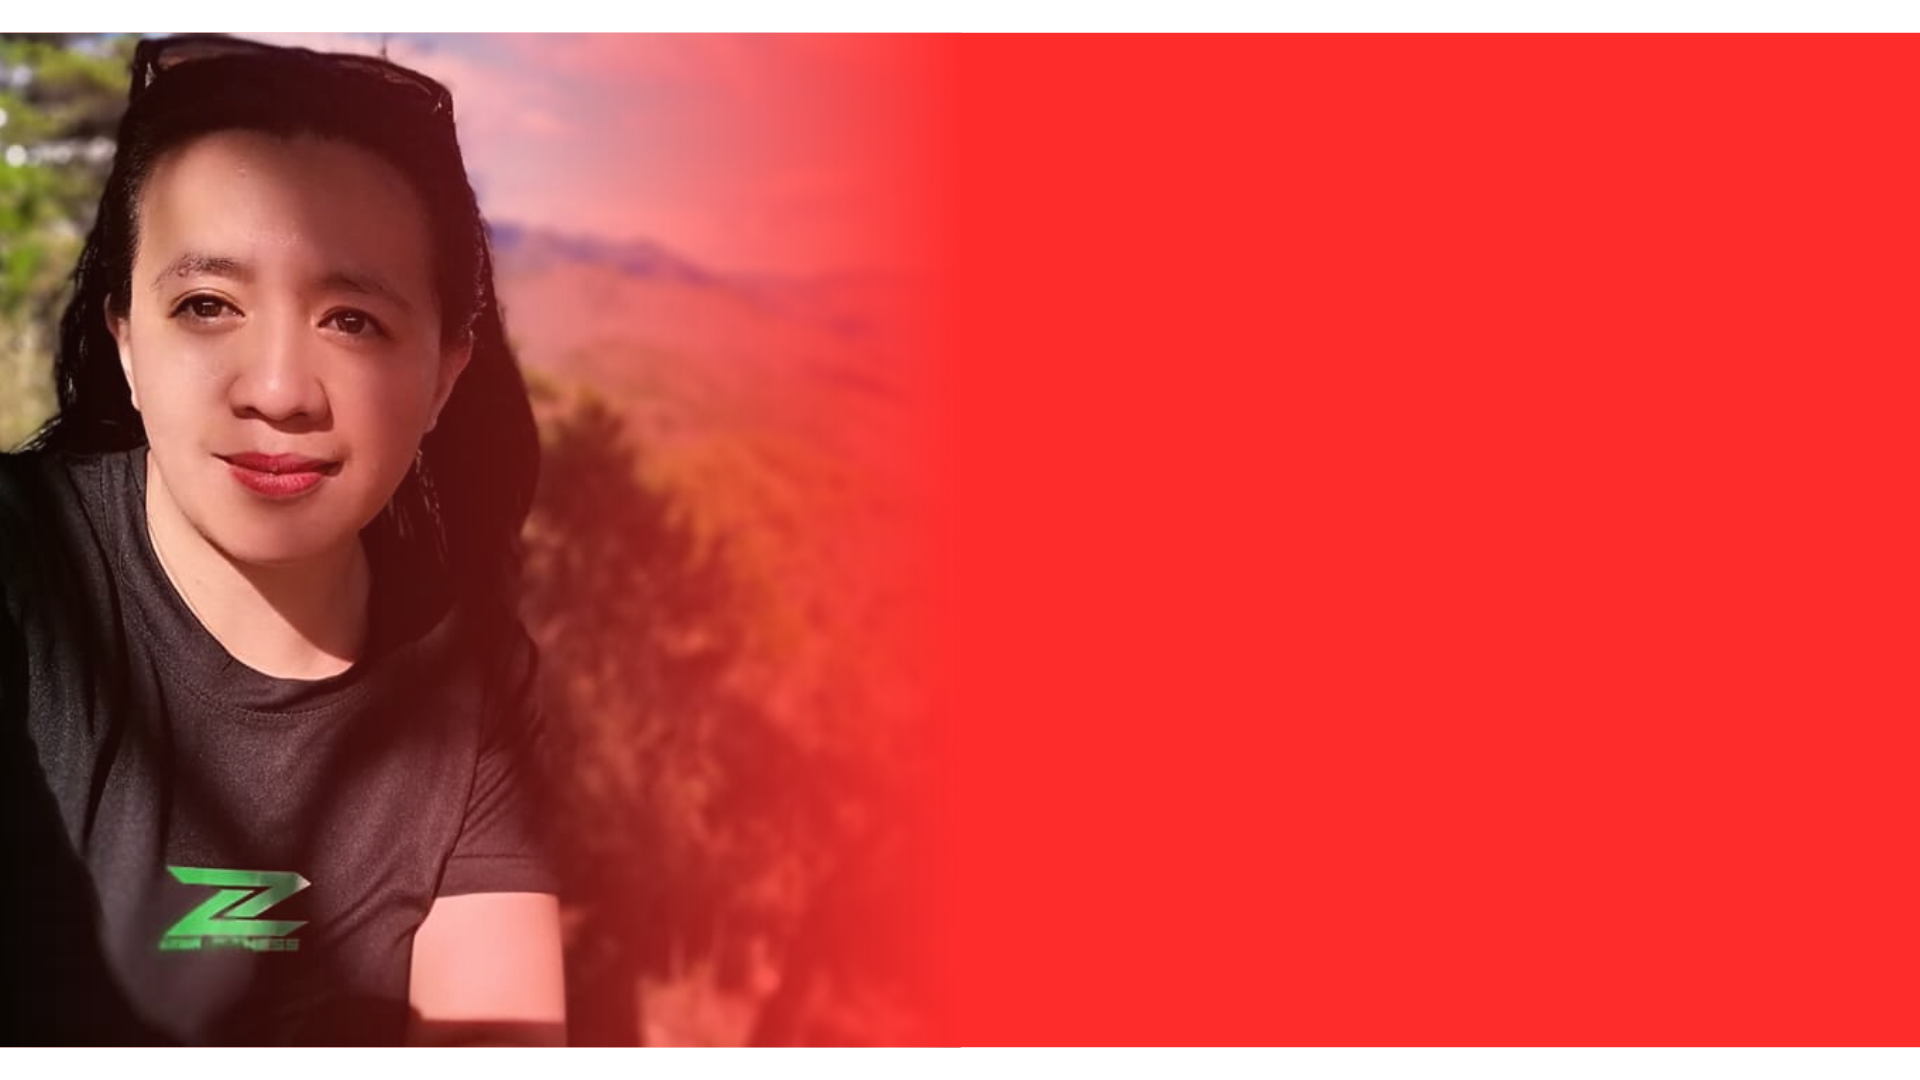
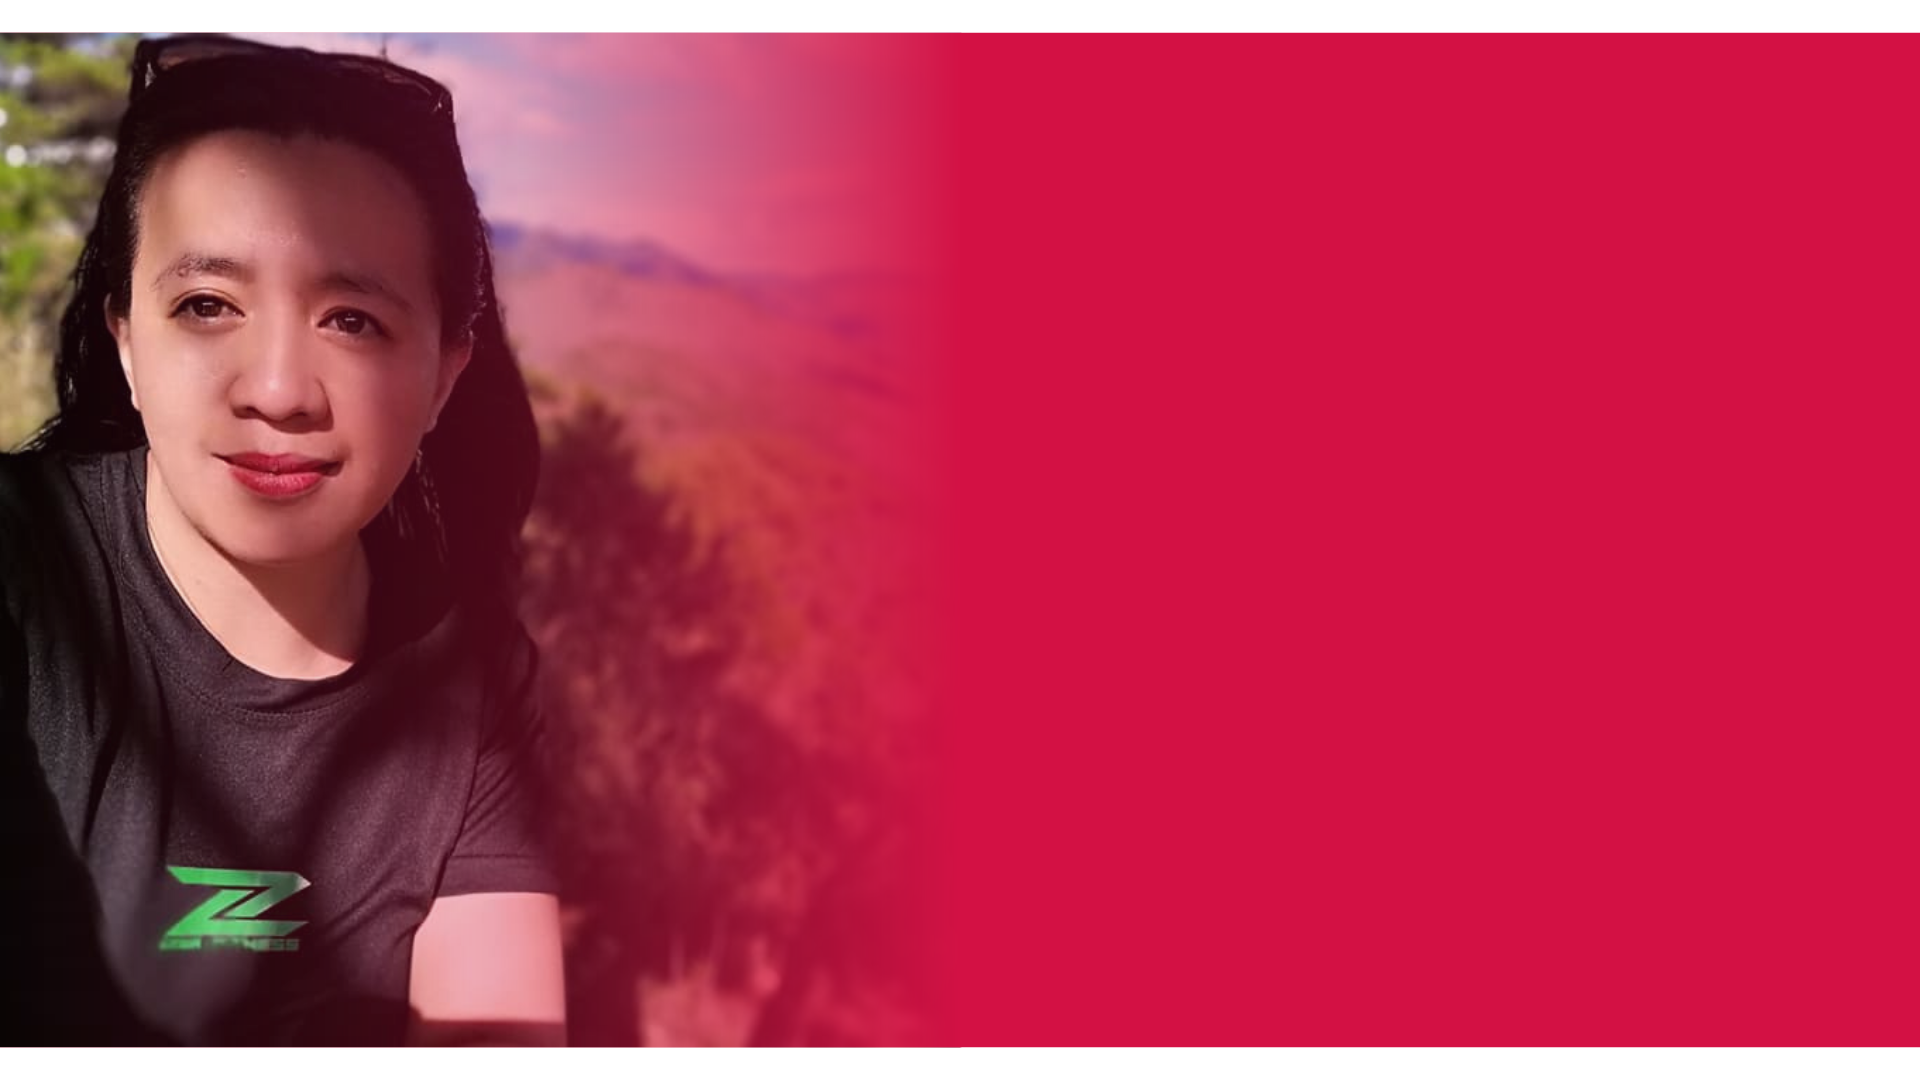
Update

diff --git a/index.html b/index.html
@@ -15,7 +15,10 @@
 
   <!-- Google Font -->
   <link href="https://fonts.googleapis.com/css?family=Montserrat:300,400,500,600,700|Open+Sans:300,400,700" rel="stylesheet">
+  <style>
 
+
+  </style>
 
   <!-- HTML5 shim and Respond.js for IE8 support of HTML5 elements and media queries -->
   <!-- WARNING: Respond.js doesn't work if you view the page via file:// -->
@@ -51,11 +54,13 @@
               <div class="hero-text">
                 <h1><span>Hi, I am</span><br>Merlyn Contic</h1>
                 <h3>Financial Advisor from AIA Philippines</h3>
+                <h3><b><i>"HEALTHIER, LONGER, BETTER LIVES"</i></b></h3>
                 <a href="#foot" class="btn btn-lg btn-primary">Know More</a>
                 <ul class="social-links">
                   <li class="label">My Contacts:</li>
                   <li><a href="#foot"><img src="assets/behance.png"></a></li>
                   <li><a href="https://www.facebook.com/profile.php?id=100091423065654"><img src="assets/twitter.png"></a></li>
+                  <li><a href="https://www.linkedin.com/in/merlyn-guidangen-contic-681818b0/"><img src="assets/linked-in.png"></a></li>
                   <li><a href="#foot"><img src="assets/dribbble.png"></a></li>
                 </ul>
               </div>
@@ -68,8 +73,8 @@
         <div class="container">
           <div class="row">
             <div class="col-md-12">
-              <h4 class="sub-heading">Exclusive</h4>
-              <h1 class="heading purple"><span class="purple">AIA</span> Services: <br></h1>
+              <h4 class="sub-heading">AIA</h4>
+              <h1 class="heading purple"><span class="purple">A+</span> Signature: <br></h1>
               <!-- Swiper -->
               <div class="swiper-container client-swiper">
                 <div class="swiper-wrapper">
@@ -113,7 +118,9 @@
           </div>
         </div>
       </section>
-
+      <div class="container"><img src="assets/scenario.png" alt="Sample Scenario"></div>
+      
+      
 
 
 
@@ -139,13 +146,13 @@
               <ul class="social-links">
                 <li><a href="#contact"><img src="assets/behance.png"></a>MERLYN-C.DENESIA@AIA.COM</li>
                 <li><a href="#contact"><img src="assets/twitter.png"></a>Merlyn's Biz Hub</li>
+                <li><a href="https://www.linkedin.com/in/merlyn-guidangen-contic-681818b0/"><img src="assets/linked-in.png"></a>Merlyn G. Contic</li>
                 <li><a href="#contact"><img src="assets/dribbble.png"></a>+63 912 751 3884</li>
               </ul>
             </div>
           </div>
           <div class="row sub-footer">
             <div class="col-md-12 text-center">
-              <p>Designed by <a href="#" target="_blank">@realvjy</a> | Download <a href="http://designerdada.com/free-bootstrap-one-page-portfolio-template/">here</a></p>
               <p>All rights go to their rightful owner.</p>
             </div>
           </div>

diff --git a/css/style.css b/css/style.css
@@ -11,7 +11,7 @@
   letter-spacing: 0.03em;
 }
 a {
-  color: #7447ae;
+  color: #d31144;
   -webkit-transition: all 0.2s;
   -moz-transition: all 0.2s;
   transition: all 0.2s;
@@ -34,7 +34,7 @@ img {
   max-width: 100%;
 }
 .purple {
-  color: #7447ae;
+  color: #d31144;
 }
 .pink {
   color: #ff2a75;
@@ -143,7 +143,7 @@ h1.heading:after {
   width: 100px;
 }
 h1.heading.purple:after {
-  background-color: #7447ae;
+  background-color: #d31144;
 }
 h1.heading.pink:after {
   background-color: #ff2a75;
@@ -281,7 +281,7 @@ h1.heading.pink:after {
 
 /* Contact Banner */
 .contact-banner {
-  background: url(../assets/bg-pat.png) #664fee repeat;
+  background: url(../assets/bg-pat.png) #000000 repeat;
   color: #fff;
   padding: 6em;
 }
